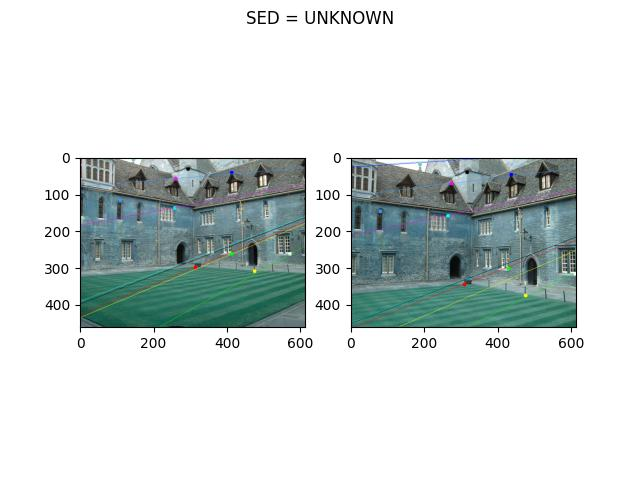
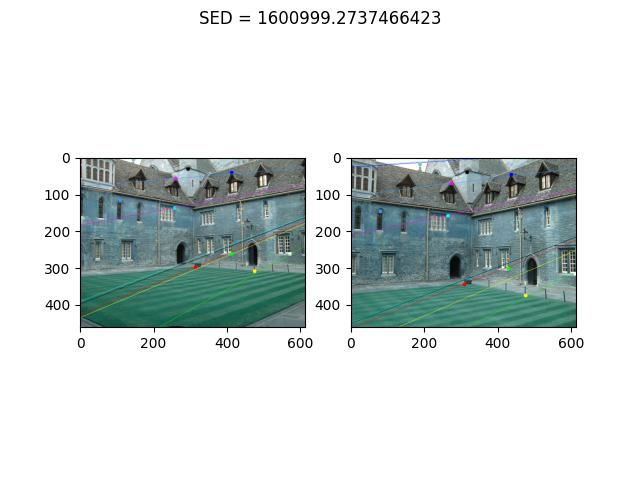
Calculated SED

Changed region(s): [[0.3125, 0.0, 0.6875, 0.0625]]

diff --git a/HW2/Q1/Q1.py b/HW2/Q1/Q1.py
@@ -1,6 +1,7 @@
 import numpy as np
 import matplotlib.pyplot as plt
 import cv2
+import math
 
 
 def tellme(msg, img):
@@ -13,13 +14,13 @@ def tellme(msg, img):
 def getImagePts(image1, image2, var_name1, var_name2):
 
     # first image
-    tellme('please select ' + str(10) + ' points in for this image', image1)
+    tellme('please select 10 points in for this image', image1)
     pts = np.asarray(plt.ginput(10, timeout=-1, show_clicks=True))
     plt.close()
     np.save(var_name1 + '.npy', np.concatenate((np.round(pts), np.ones((np.shape(pts)[0]))[:, np.newaxis]), axis=1))
 
     # second image
-    tellme('please select ' + str(10) + ' points in for this image', image2)
+    tellme('please select 10 points in for this image', image2)
     pts = np.asarray(plt.ginput(10, timeout=-1, show_clicks=True))
     plt.close()
     np.save(var_name2 + '.npy', np.concatenate((np.round(pts), np.ones((np.shape(pts)[0]))[:, np.newaxis]), axis=1))
@@ -46,10 +47,14 @@ if __name__ == "__main__":
     im1 = cv2.imread('location_2_frame_001.jpg')
     im2 = cv2.imread('location_2_frame_002.jpg')
 
-    # getImagePts(im1,im2,'s1','s2')
+    # getImagePts(im1, im2, 's1', 's2')     # TODO: uncomment after tests
+    getImagePts(im1, im2, 't1', 't2')
 
-    s1 = np.load('s1.npy').astype(int)
-    s2 = np.load('s2.npy').astype(int)
+    s1 = np.load('s1.npy').astype(int)      # first set - left image points
+    s2 = np.load('s2.npy').astype(int)      # first set - right image points
+
+    t1 = np.load('t1.npy').astype(int)      # second set - left image points
+    t2 = np.load('t2.npy').astype(int)      # second set - right image points
 
     F1, mask1 = cv2.findFundamentalMat(s1, s2, cv2.FM_8POINT)
 
@@ -66,24 +71,40 @@ if __name__ == "__main__":
         (50, 150, 255),
     ]
 
-    # Find epilines corresponding to the points in right image (second image) and
-    # drawing its lines on left image
-    lines1 = cv2.computeCorrespondEpilines(s2.reshape(-1, 1, 2), 2, F1)
-    lines1 = lines1.reshape(-1, 3)
-    img5, img6 = draw_lines(im1, im2, lines1, s1, s2)
+    sets = [(s1, s2), (t1, t2)]
 
-    # Find epilines corresponding to the points in left image (first image) and
-    # drawing its lines on right image
-    lines2 = cv2.computeCorrespondEpilines(s1.reshape(-1, 1, 2), 1, F1)
-    lines2 = lines2.reshape(-1, 3)
-    img3, img4 = draw_lines(im2, im1, lines2, s2, s1)
+    for (left_points, right_points) in sets:
 
-    plt.figure()
-    plt.suptitle("SED = UNKNOWN")
-    plt.subplot(1, 2, 1)
-    plt.imshow(img3)
+        # Find epilines corresponding to the points in right image (second image) and
+        # drawing its lines on left image
+        lines1 = cv2.computeCorrespondEpilines(right_points.reshape(-1, 1, 2), 2, F1)
+        lines1 = lines1.reshape(-1, 3)
+        img5, img6 = draw_lines(im1, im2, lines1, left_points, right_points)
 
-    plt.subplot(1, 2, 2)
-    plt.imshow(img4)
-    plt.savefig('result.jpg')
-    plt.show()
+        # Find epilines corresponding to the points in left image (first image) and
+        # drawing its lines on right image
+        lines2 = cv2.computeCorrespondEpilines(left_points.reshape(-1, 1, 2), 1, F1)
+
+        lines2 = lines2.reshape(-1, 3)
+        img3, img4 = draw_lines(im2, im1, lines2, right_points, left_points)
+
+        sed = 0
+        for index, left_point in enumerate(left_points):
+            res = np.matmul(F1, left_point)
+            right_point = right_points[index]
+            dist = (right_point[0] - res[0]) ** 2
+            dist += (right_point[1] - res[1]) ** 2
+            dist += (right_point[2] - res[2]) ** 2
+            dist = math.sqrt(dist)
+            sed += dist ** 2
+
+        plt.figure()
+        plt.suptitle("SED = " + str(sed))
+
+        plt.subplot(1, 2, 1)
+        plt.imshow(img3)
+
+        plt.subplot(1, 2, 2)
+        plt.imshow(img4)
+        plt.savefig('result.jpg')
+        plt.show()
